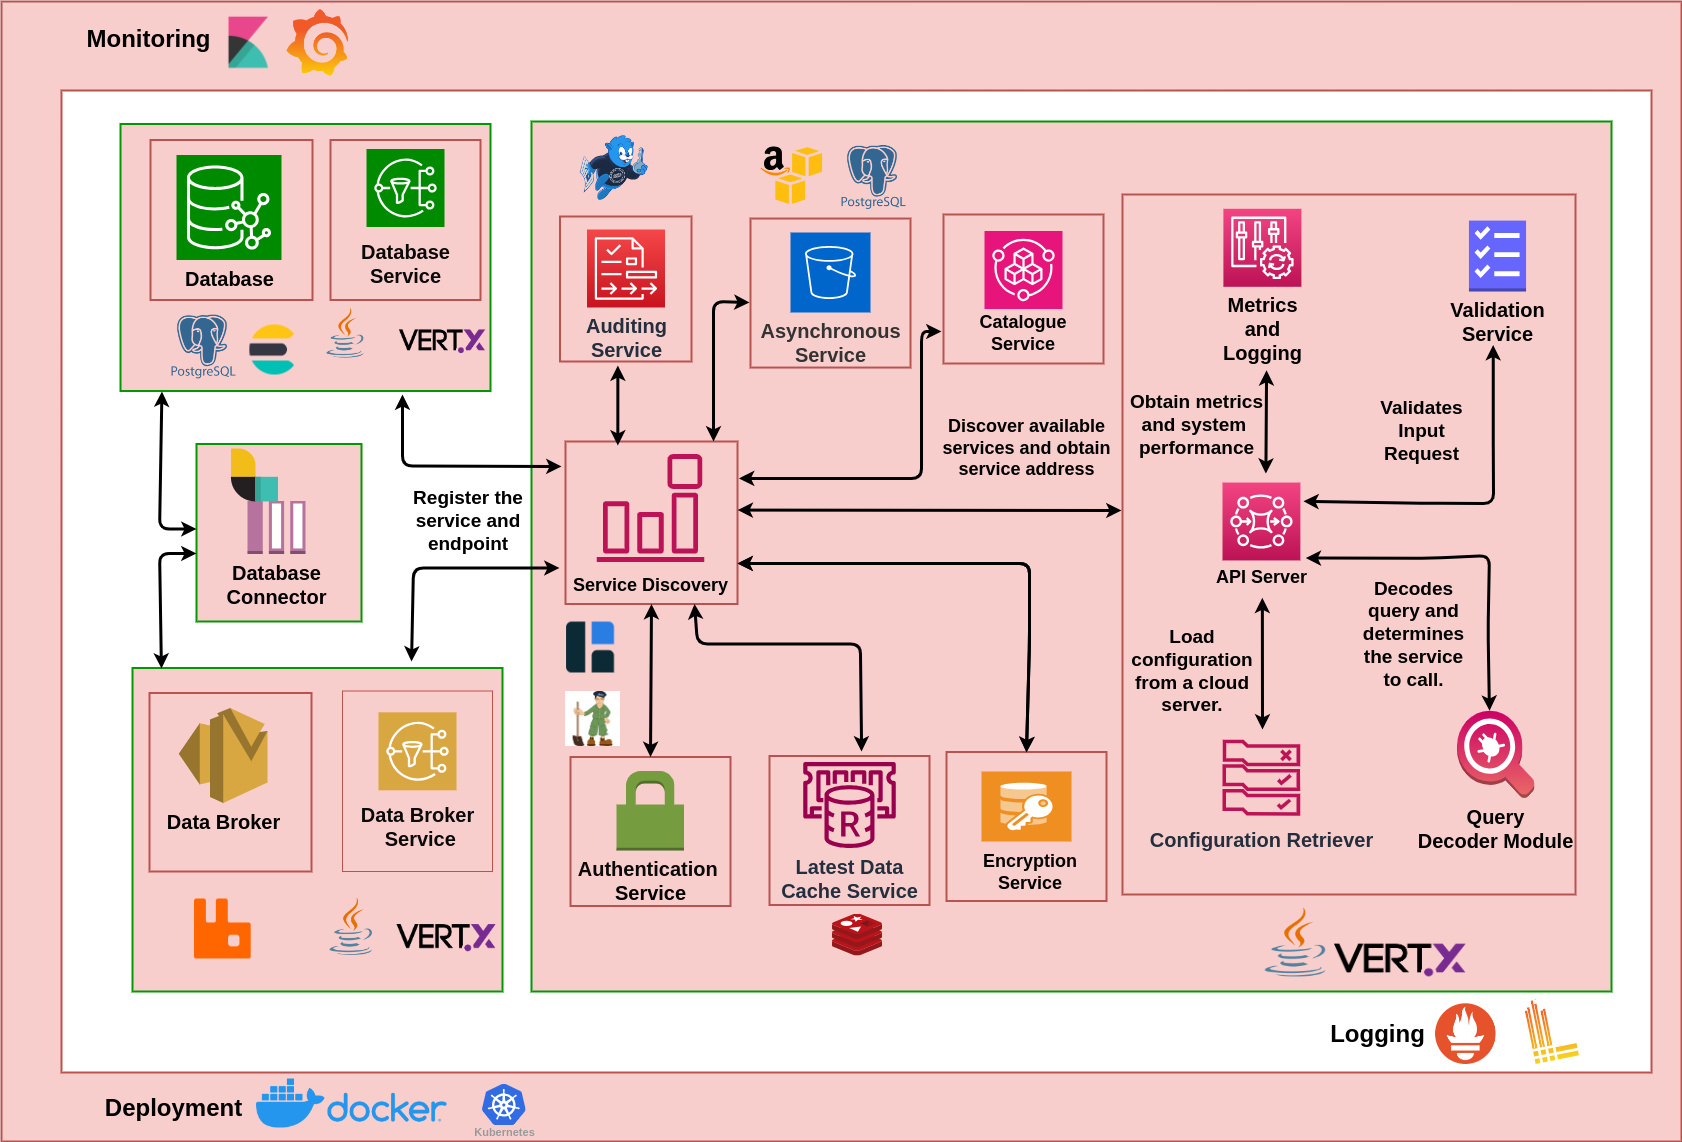
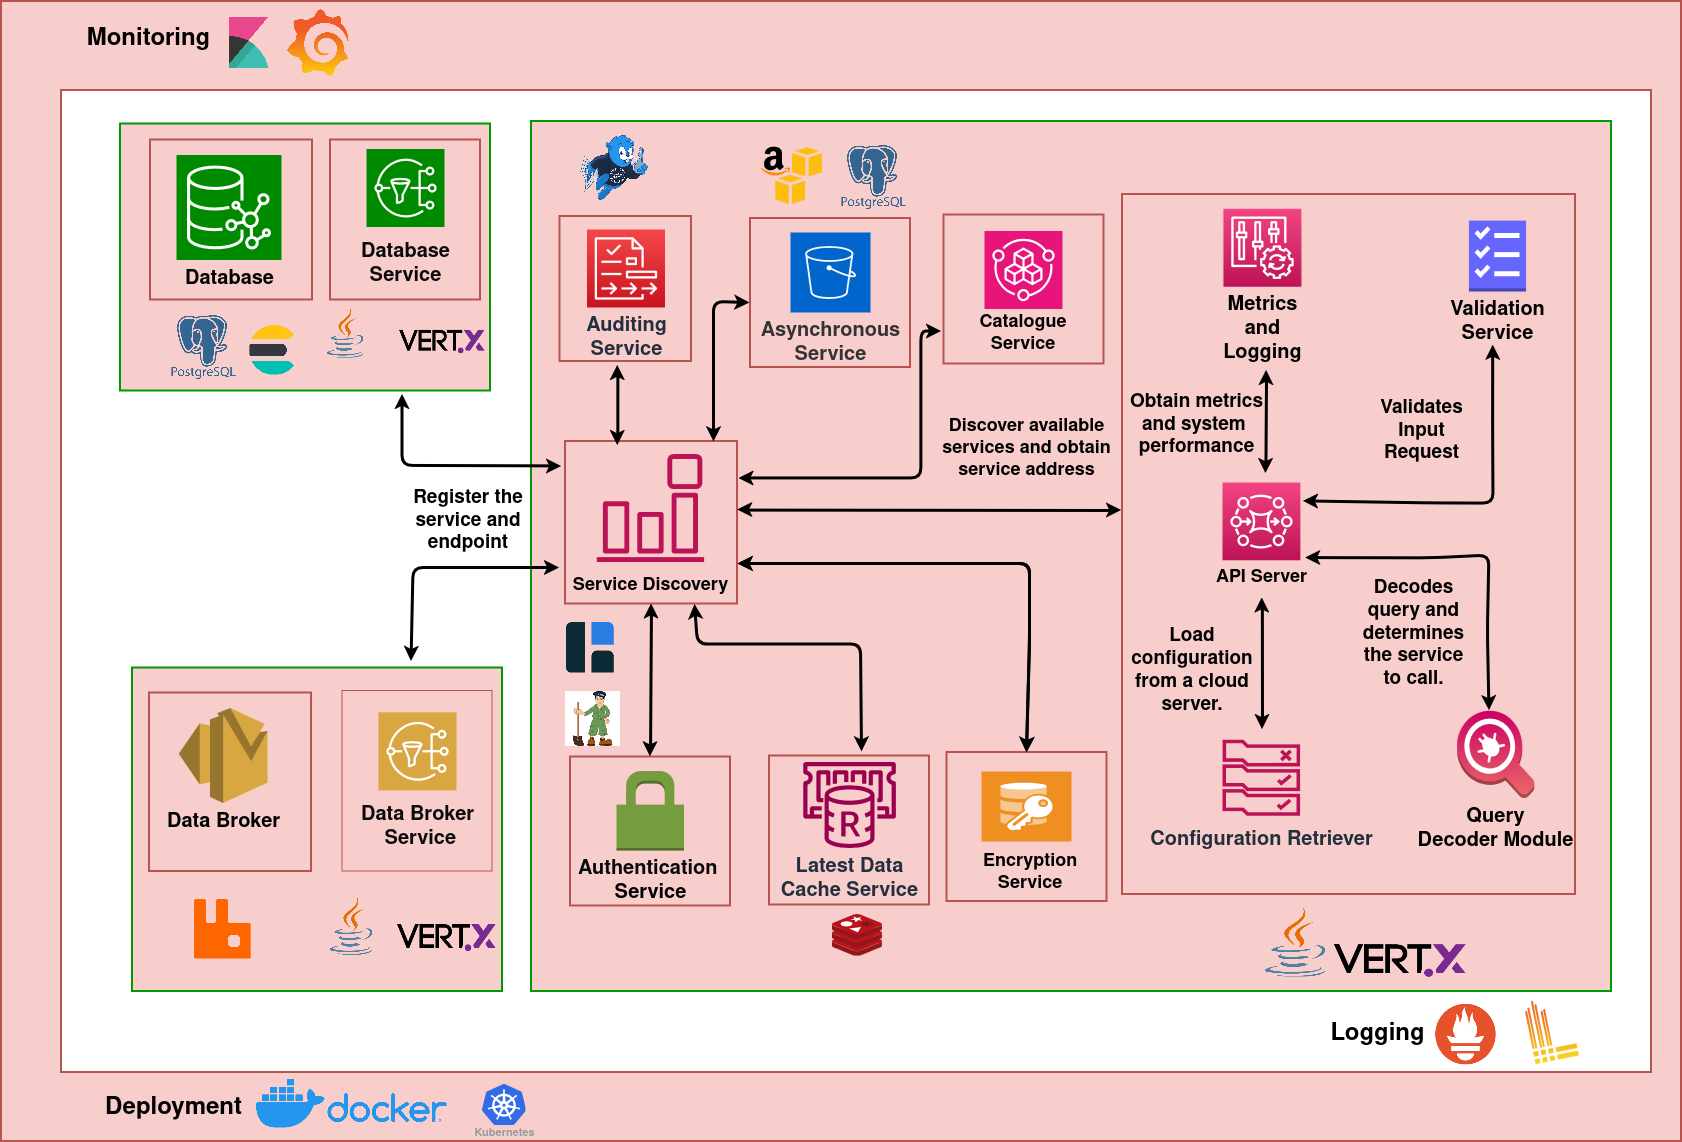
updated arch image

diff --git a/docs/Solution_Architecture.md b/docs/Solution_Architecture.md
@@ -62,8 +62,5 @@ The encrypted data could be decrypted using the lazysodium sealed box by supplyi
 ### Async Service
 The async service allows users to make API requests for resources over extended time periods and larger geographic areas. By processing these requests asynchronously, it ensures that the system remains responsive, even when handling large or complex data queries, and users can retrieve results once the processing is complete.
 
-### Database Connector
-The database connector Service routes between the data broker (to which streaming data may be published) and the database (where the data will be stored).
-
 ### Latest Service
 The Latest Service retrieves latest data from Redis, providing users with quick access to current data. By using Redis, the service ensures fast response times, enhancing the overall efficiency of data retrieval.
